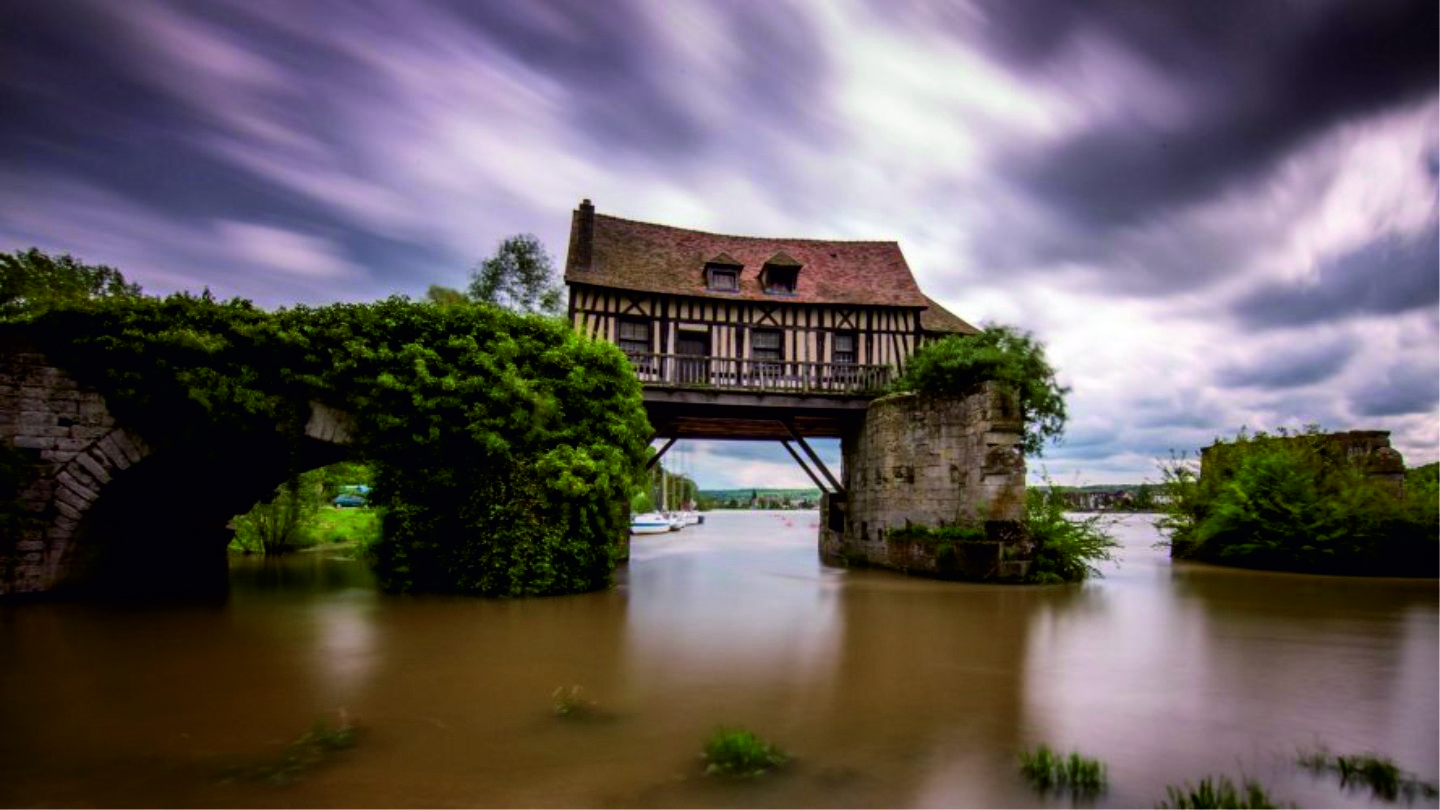
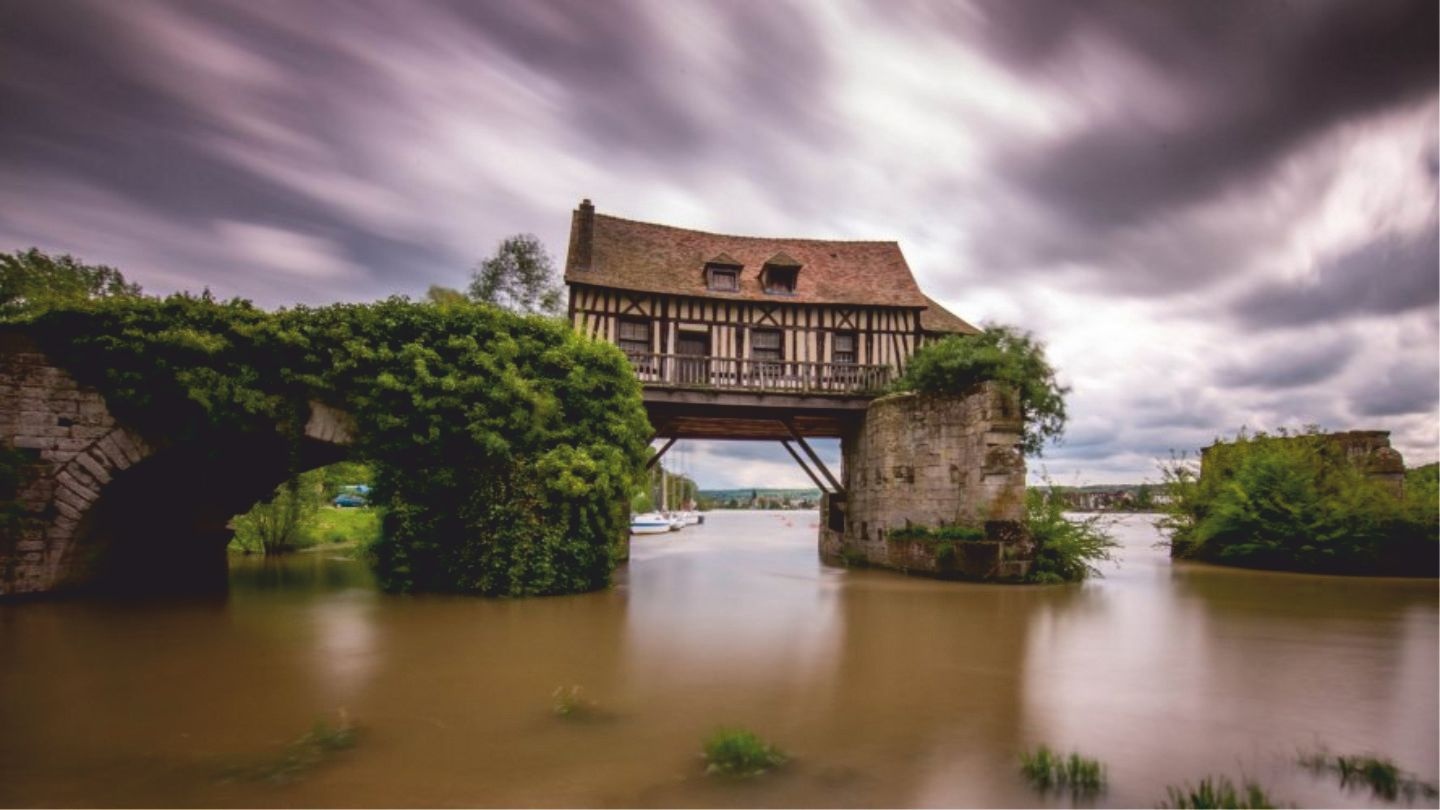
anton

diff --git a/index.html b/index.html
@@ -71,7 +71,7 @@
 			</ol>
 			<div class="carousel-inner slide-text">
 			  <div class="carousel-item active">
-				<img src="img/reel_1.png" class="d-block w-100" alt="...">
+				<img src="img/reel_1.jpg" class="d-block w-100" alt="...">
 				<div class="carousel-caption d-none d-md-block textcs">
 				  <img src="img/Layer4.3.png" width="100px">
 				  <h2>Maecenas quis lobortis nunc. Nullam sit</h2>
@@ -83,28 +83,28 @@
 				</div>
 			  </div>
 			  <div class="carousel-item">
-				<img src="img/reel_2.gif" class="d-block w-100" alt="...">
+				<img src="img/reel_2.jpg" class="d-block w-100" alt="...">
 				<div class="carousel-caption d-none d-md-block textcs">
 				  <h2>Third slide label</h2>
 				  <h3>Lorem ipsum dolor sit amet, consectetur adipiscing elit.</h3>
 				</div>
 			  </div>
 			  <div class="carousel-item">
-				<img src="img/reel_3.gif" class="d-block w-100" alt="...">
+				<img src="img/reel_3.jpg" class="d-block w-100" alt="...">
 				<div class="carousel-caption d-none d-md-block textcs">
 				  <h2>Third slide label</h2>
 				  <h3>Praesent commodo cursus magna, vel scelerisque nisl consectetur.</h3>
 				</div>
 			  </div>
 				<div class="carousel-item">
-				<img src="img/reel_4.gif" class="d-block w-100" alt="...">
+				<img src="img/reel_4.jpg" class="d-block w-100" alt="...">
 				<div class="carousel-caption d-none d-md-block textcs">
 				  <h2>Third slide label</h2>
 				  <h3>Praesent commodo cursus magna, vel scelerisque nisl consectetur.</h3>
 				</div>
 			  </div>    
 			  <div class="carousel-item">
-				<img src="img/reel_5.gif" class="d-block w-100" alt="...">
+				<img src="img/reel_5.jpg" class="d-block w-100" alt="...">
 				<div class="carousel-caption d-none d-md-block textcs">
 				  <h2>Third slide label</h2>
 				  <h3>Praesent commodo cursus magna, vel scelerisque nisl consectetur.</h3>
